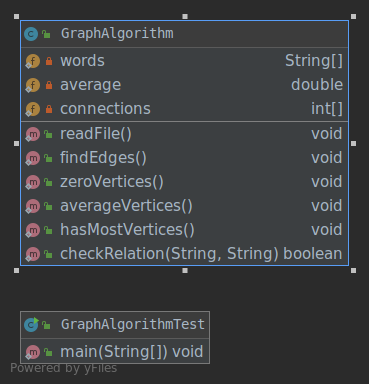
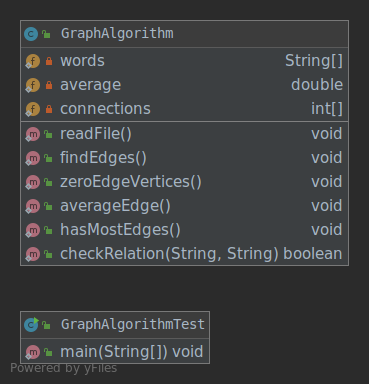
uml diagrams java docs

diff --git a/oral_exam2/S35_GraphAlgos_Easy/doc/GraphAlgorithm.html b/oral_exam2/S35_GraphAlgos_Easy/doc/GraphAlgorithm.html
@@ -2,7 +2,7 @@
 <!-- NewPage -->
 <html lang="en">
 <head>
-<!-- Generated by javadoc (11.0.7) on Sat May 02 19:47:49 CDT 2020 -->
+<!-- Generated by javadoc (11.0.7) on Sat May 02 20:28:17 CDT 2020 -->
 <title>GraphAlgorithm</title>
 <meta http-equiv="Content-Type" content="text/html; charset=utf-8">
 <meta name="dc.created" content="2020-05-02">
@@ -213,9 +213,9 @@ extends java.lang.Object</pre>
 </tr>
 <tr id="i0" class="altColor">
 <td class="colFirst"><code>static void</code></td>
-<th class="colSecond" scope="row"><code><span class="memberNameLink"><a href="#averageVertices()">averageVertices</a></span>()</code></th>
+<th class="colSecond" scope="row"><code><span class="memberNameLink"><a href="#averageEdge()">averageEdge</a></span>()</code></th>
 <td class="colLast">
-<div class="block">Method to compute average number of vertices</div>
+<div class="block">Method to compute average number of edges</div>
 </td>
 </tr>
 <tr id="i1" class="rowColor">
@@ -235,8 +235,10 @@ extends java.lang.Object</pre>
 </tr>
 <tr id="i3" class="rowColor">
 <td class="colFirst"><code>static void</code></td>
-<th class="colSecond" scope="row"><code><span class="memberNameLink"><a href="#hasMostVertices()">hasMostVertices</a></span>()</code></th>
-<td class="colLast">&nbsp;</td>
+<th class="colSecond" scope="row"><code><span class="memberNameLink"><a href="#hasMostEdges()">hasMostEdges</a></span>()</code></th>
+<td class="colLast">
+<div class="block">Method to find the vertices that has most number of edges</div>
+</td>
 </tr>
 <tr id="i4" class="altColor">
 <td class="colFirst"><code>static void</code></td>
@@ -247,7 +249,7 @@ extends java.lang.Object</pre>
 </tr>
 <tr id="i5" class="rowColor">
 <td class="colFirst"><code>static void</code></td>
-<th class="colSecond" scope="row"><code><span class="memberNameLink"><a href="#zeroVertices()">zeroVertices</a></span>()</code></th>
+<th class="colSecond" scope="row"><code><span class="memberNameLink"><a href="#zeroEdgeVertices()">zeroEdgeVertices</a></span>()</code></th>
 <td class="colLast">
 <div class="block">Method to find the zero edge vertices</div>
 </td>
@@ -352,33 +354,34 @@ extends java.lang.Object</pre>
 <div class="block">Method to find the edges to all vertices</div>
 </li>
 </ul>
-<a id="zeroVertices()">
+<a id="zeroEdgeVertices()">
 <!--   -->
 </a>
 <ul class="blockList">
 <li class="blockList">
-<h4>zeroVertices</h4>
-<pre class="methodSignature">public static&nbsp;void&nbsp;zeroVertices()</pre>
+<h4>zeroEdgeVertices</h4>
+<pre class="methodSignature">public static&nbsp;void&nbsp;zeroEdgeVertices()</pre>
 <div class="block">Method to find the zero edge vertices</div>
 </li>
 </ul>
-<a id="averageVertices()">
+<a id="averageEdge()">
 <!--   -->
 </a>
 <ul class="blockList">
 <li class="blockList">
-<h4>averageVertices</h4>
-<pre class="methodSignature">public static&nbsp;void&nbsp;averageVertices()</pre>
-<div class="block">Method to compute average number of vertices</div>
+<h4>averageEdge</h4>
+<pre class="methodSignature">public static&nbsp;void&nbsp;averageEdge()</pre>
+<div class="block">Method to compute average number of edges</div>
 </li>
 </ul>
-<a id="hasMostVertices()">
+<a id="hasMostEdges()">
 <!--   -->
 </a>
 <ul class="blockList">
 <li class="blockList">
-<h4>hasMostVertices</h4>
-<pre class="methodSignature">public static&nbsp;void&nbsp;hasMostVertices()</pre>
+<h4>hasMostEdges</h4>
+<pre class="methodSignature">public static&nbsp;void&nbsp;hasMostEdges()</pre>
+<div class="block">Method to find the vertices that has most number of edges</div>
 </li>
 </ul>
 <a id="checkRelation(java.lang.String,java.lang.String)">

diff --git a/oral_exam2/S35_GraphAlgos_Easy/doc/member-search-index.js b/oral_exam2/S35_GraphAlgos_Easy/doc/member-search-index.js
@@ -1,1 +1,1 @@
-memberSearchIndex = [{"p":"<Unnamed>","c":"GraphAlgorithm","l":"average"},{"p":"<Unnamed>","c":"GraphAlgorithm","l":"averageVertices()"},{"p":"<Unnamed>","c":"GraphAlgorithm","l":"checkRelation(String, String)","url":"checkRelation(java.lang.String,java.lang.String)"},{"p":"<Unnamed>","c":"GraphAlgorithm","l":"connections"},{"p":"<Unnamed>","c":"GraphAlgorithm","l":"findEdges()"},{"p":"<Unnamed>","c":"GraphAlgorithm","l":"GraphAlgorithm()","url":"%3Cinit%3E()"},{"p":"<Unnamed>","c":"GraphAlgorithmTest","l":"GraphAlgorithmTest()","url":"%3Cinit%3E()"},{"p":"<Unnamed>","c":"GraphAlgorithm","l":"hasMostVertices()"},{"p":"<Unnamed>","c":"GraphAlgorithmTest","l":"main(String[])","url":"main(java.lang.String[])"},{"p":"<Unnamed>","c":"GraphAlgorithm","l":"readFile()"},{"p":"<Unnamed>","c":"GraphAlgorithm","l":"words"},{"p":"<Unnamed>","c":"GraphAlgorithm","l":"zeroVertices()"}]
+memberSearchIndex = [{"p":"<Unnamed>","c":"GraphAlgorithm","l":"average"},{"p":"<Unnamed>","c":"GraphAlgorithm","l":"averageEdge()"},{"p":"<Unnamed>","c":"GraphAlgorithm","l":"checkRelation(String, String)","url":"checkRelation(java.lang.String,java.lang.String)"},{"p":"<Unnamed>","c":"GraphAlgorithm","l":"connections"},{"p":"<Unnamed>","c":"GraphAlgorithm","l":"findEdges()"},{"p":"<Unnamed>","c":"GraphAlgorithm","l":"GraphAlgorithm()","url":"%3Cinit%3E()"},{"p":"<Unnamed>","c":"GraphAlgorithmTest","l":"GraphAlgorithmTest()","url":"%3Cinit%3E()"},{"p":"<Unnamed>","c":"GraphAlgorithm","l":"hasMostEdges()"},{"p":"<Unnamed>","c":"GraphAlgorithmTest","l":"main(String[])","url":"main(java.lang.String[])"},{"p":"<Unnamed>","c":"GraphAlgorithm","l":"readFile()"},{"p":"<Unnamed>","c":"GraphAlgorithm","l":"words"},{"p":"<Unnamed>","c":"GraphAlgorithm","l":"zeroEdgeVertices()"}]

diff --git a/oral_exam2/S35_GraphAlgos_Easy/doc/index-files/index-1.html b/oral_exam2/S35_GraphAlgos_Easy/doc/index-files/index-1.html
@@ -2,7 +2,7 @@
 <!-- NewPage -->
 <html lang="en">
 <head>
-<!-- Generated by javadoc (11.0.7) on Sat May 02 19:47:49 CDT 2020 -->
+<!-- Generated by javadoc (11.0.7) on Sat May 02 20:28:17 CDT 2020 -->
 <title>A-Index</title>
 <meta http-equiv="Content-Type" content="text/html; charset=utf-8">
 <meta name="dc.created" content="2020-05-02">
@@ -99,9 +99,9 @@ $('.navPadding').css('padding-top', $('.fixedNav').css("height"));
 <dl>
 <dt><span class="memberNameLink"><a href="../GraphAlgorithm.html#average">average</a></span> - Static variable in class <a href="../GraphAlgorithm.html" title="class in &lt;Unnamed&gt;">GraphAlgorithm</a></dt>
 <dd>&nbsp;</dd>
-<dt><span class="memberNameLink"><a href="../GraphAlgorithm.html#averageVertices()">averageVertices()</a></span> - Static method in class <a href="../GraphAlgorithm.html" title="class in &lt;Unnamed&gt;">GraphAlgorithm</a></dt>
+<dt><span class="memberNameLink"><a href="../GraphAlgorithm.html#averageEdge()">averageEdge()</a></span> - Static method in class <a href="../GraphAlgorithm.html" title="class in &lt;Unnamed&gt;">GraphAlgorithm</a></dt>
 <dd>
-<div class="block">Method to compute average number of vertices</div>
+<div class="block">Method to compute average number of edges</div>
 </dd>
 </dl>
 <a href="index-1.html">A</a>&nbsp;<a href="index-2.html">C</a>&nbsp;<a href="index-3.html">F</a>&nbsp;<a href="index-4.html">G</a>&nbsp;<a href="index-5.html">H</a>&nbsp;<a href="index-6.html">M</a>&nbsp;<a href="index-7.html">R</a>&nbsp;<a href="index-8.html">W</a>&nbsp;<a href="index-9.html">Z</a>&nbsp;<br><a href="../allclasses-index.html">All&nbsp;Classes</a>&nbsp;<a href="../allpackages-index.html">All&nbsp;Packages</a></div>

diff --git a/oral_exam2/S35_GraphAlgos_Easy/doc/index-files/index-5.html b/oral_exam2/S35_GraphAlgos_Easy/doc/index-files/index-5.html
@@ -2,7 +2,7 @@
 <!-- NewPage -->
 <html lang="en">
 <head>
-<!-- Generated by javadoc (11.0.7) on Sat May 02 19:47:49 CDT 2020 -->
+<!-- Generated by javadoc (11.0.7) on Sat May 02 20:28:17 CDT 2020 -->
 <title>H-Index</title>
 <meta http-equiv="Content-Type" content="text/html; charset=utf-8">
 <meta name="dc.created" content="2020-05-02">
@@ -97,8 +97,10 @@ $('.navPadding').css('padding-top', $('.fixedNav').css("height"));
 </a>
 <h2 class="title">H</h2>
 <dl>
-<dt><span class="memberNameLink"><a href="../GraphAlgorithm.html#hasMostVertices()">hasMostVertices()</a></span> - Static method in class <a href="../GraphAlgorithm.html" title="class in &lt;Unnamed&gt;">GraphAlgorithm</a></dt>
-<dd>&nbsp;</dd>
+<dt><span class="memberNameLink"><a href="../GraphAlgorithm.html#hasMostEdges()">hasMostEdges()</a></span> - Static method in class <a href="../GraphAlgorithm.html" title="class in &lt;Unnamed&gt;">GraphAlgorithm</a></dt>
+<dd>
+<div class="block">Method to find the vertices that has most number of edges</div>
+</dd>
 </dl>
 <a href="index-1.html">A</a>&nbsp;<a href="index-2.html">C</a>&nbsp;<a href="index-3.html">F</a>&nbsp;<a href="index-4.html">G</a>&nbsp;<a href="index-5.html">H</a>&nbsp;<a href="index-6.html">M</a>&nbsp;<a href="index-7.html">R</a>&nbsp;<a href="index-8.html">W</a>&nbsp;<a href="index-9.html">Z</a>&nbsp;<br><a href="../allclasses-index.html">All&nbsp;Classes</a>&nbsp;<a href="../allpackages-index.html">All&nbsp;Packages</a></div>
 </main>

diff --git a/oral_exam2/S35_GraphAlgos_Easy/doc/index-files/index-9.html b/oral_exam2/S35_GraphAlgos_Easy/doc/index-files/index-9.html
@@ -2,7 +2,7 @@
 <!-- NewPage -->
 <html lang="en">
 <head>
-<!-- Generated by javadoc (11.0.7) on Sat May 02 19:47:49 CDT 2020 -->
+<!-- Generated by javadoc (11.0.7) on Sat May 02 20:28:17 CDT 2020 -->
 <title>Z-Index</title>
 <meta http-equiv="Content-Type" content="text/html; charset=utf-8">
 <meta name="dc.created" content="2020-05-02">
@@ -97,7 +97,7 @@ $('.navPadding').css('padding-top', $('.fixedNav').css("height"));
 </a>
 <h2 class="title">Z</h2>
 <dl>
-<dt><span class="memberNameLink"><a href="../GraphAlgorithm.html#zeroVertices()">zeroVertices()</a></span> - Static method in class <a href="../GraphAlgorithm.html" title="class in &lt;Unnamed&gt;">GraphAlgorithm</a></dt>
+<dt><span class="memberNameLink"><a href="../GraphAlgorithm.html#zeroEdgeVertices()">zeroEdgeVertices()</a></span> - Static method in class <a href="../GraphAlgorithm.html" title="class in &lt;Unnamed&gt;">GraphAlgorithm</a></dt>
 <dd>
 <div class="block">Method to find the zero edge vertices</div>
 </dd>

diff --git a/oral_exam2/S35_GraphAlgos_Easy/doc/index.html b/oral_exam2/S35_GraphAlgos_Easy/doc/index.html
@@ -2,7 +2,7 @@
 <!-- NewPage -->
 <html lang="en">
 <head>
-<!-- Generated by javadoc (11.0.7) on Sat May 02 19:47:49 CDT 2020 -->
+<!-- Generated by javadoc (11.0.7) on Sat May 02 20:28:17 CDT 2020 -->
 <title>Generated Documentation (Untitled)</title>
 <meta http-equiv="Content-Type" content="text/html; charset=utf-8">
 <script type="text/javascript">window.location.replace('GraphAlgorithmTest.html')</script>

diff --git a/oral_exam2/S35_GraphAlgos_Easy/doc/constant-values.html b/oral_exam2/S35_GraphAlgos_Easy/doc/constant-values.html
@@ -2,7 +2,7 @@
 <!-- NewPage -->
 <html lang="en">
 <head>
-<!-- Generated by javadoc (11.0.7) on Sat May 02 19:47:49 CDT 2020 -->
+<!-- Generated by javadoc (11.0.7) on Sat May 02 20:28:17 CDT 2020 -->
 <title>Constant Field Values</title>
 <meta http-equiv="Content-Type" content="text/html; charset=utf-8">
 <meta name="dc.created" content="2020-05-02">

diff --git a/oral_exam2/S35_GraphAlgos_Easy/doc/GraphAlgorithmTest.html b/oral_exam2/S35_GraphAlgos_Easy/doc/GraphAlgorithmTest.html
@@ -2,7 +2,7 @@
 <!-- NewPage -->
 <html lang="en">
 <head>
-<!-- Generated by javadoc (11.0.7) on Sat May 02 19:47:49 CDT 2020 -->
+<!-- Generated by javadoc (11.0.7) on Sat May 02 20:28:17 CDT 2020 -->
 <title>GraphAlgorithmTest</title>
 <meta http-equiv="Content-Type" content="text/html; charset=utf-8">
 <meta name="dc.created" content="2020-05-02">

diff --git a/oral_exam2/S35_GraphAlgos_Easy/doc/package-tree.html b/oral_exam2/S35_GraphAlgos_Easy/doc/package-tree.html
@@ -2,7 +2,7 @@
 <!-- NewPage -->
 <html lang="en">
 <head>
-<!-- Generated by javadoc (11.0.7) on Sat May 02 19:47:49 CDT 2020 -->
+<!-- Generated by javadoc (11.0.7) on Sat May 02 20:28:17 CDT 2020 -->
 <title> Class Hierarchy</title>
 <meta http-equiv="Content-Type" content="text/html; charset=utf-8">
 <meta name="dc.created" content="2020-05-02">

diff --git a/oral_exam2/S35_GraphAlgos_Easy/doc/deprecated-list.html b/oral_exam2/S35_GraphAlgos_Easy/doc/deprecated-list.html
@@ -2,7 +2,7 @@
 <!-- NewPage -->
 <html lang="en">
 <head>
-<!-- Generated by javadoc (11.0.7) on Sat May 02 19:47:49 CDT 2020 -->
+<!-- Generated by javadoc (11.0.7) on Sat May 02 20:28:17 CDT 2020 -->
 <title>Deprecated List</title>
 <meta http-equiv="Content-Type" content="text/html; charset=utf-8">
 <meta name="dc.created" content="2020-05-02">

diff --git a/oral_exam2/S35_GraphAlgos_Easy/doc/overview-tree.html b/oral_exam2/S35_GraphAlgos_Easy/doc/overview-tree.html
@@ -2,7 +2,7 @@
 <!-- NewPage -->
 <html lang="en">
 <head>
-<!-- Generated by javadoc (11.0.7) on Sat May 02 19:47:49 CDT 2020 -->
+<!-- Generated by javadoc (11.0.7) on Sat May 02 20:28:17 CDT 2020 -->
 <title>Class Hierarchy</title>
 <meta http-equiv="Content-Type" content="text/html; charset=utf-8">
 <meta name="dc.created" content="2020-05-02">

diff --git a/oral_exam2/S35_GraphAlgos_Easy/doc/package-summary.html b/oral_exam2/S35_GraphAlgos_Easy/doc/package-summary.html
@@ -2,7 +2,7 @@
 <!-- NewPage -->
 <html lang="en">
 <head>
-<!-- Generated by javadoc (11.0.7) on Sat May 02 19:47:49 CDT 2020 -->
+<!-- Generated by javadoc (11.0.7) on Sat May 02 20:28:17 CDT 2020 -->
 <title>&lt;Unnamed&gt;</title>
 <meta http-equiv="Content-Type" content="text/html; charset=utf-8">
 <meta name="dc.created" content="2020-05-02">
